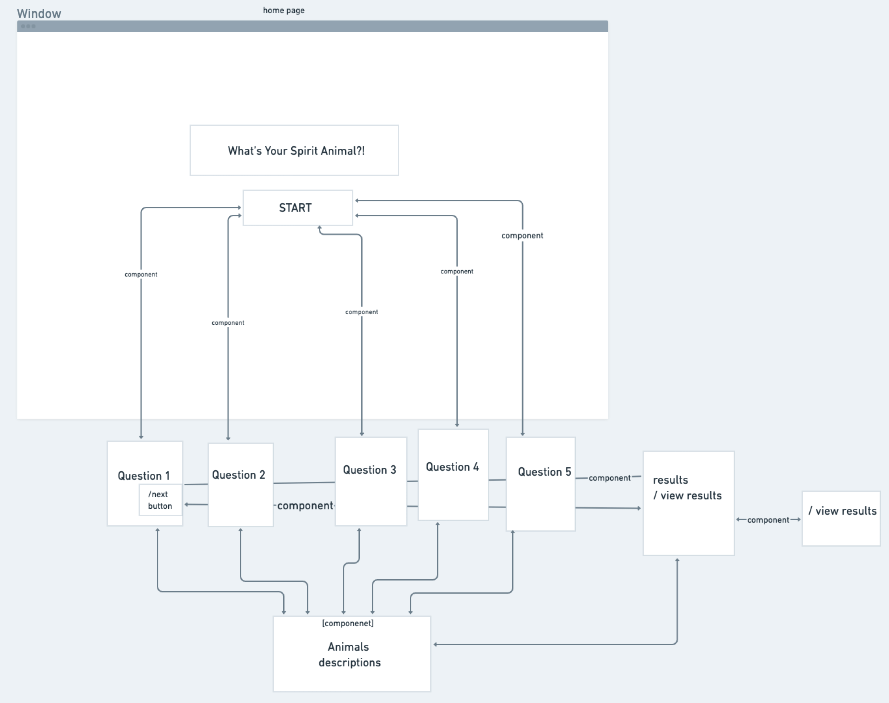
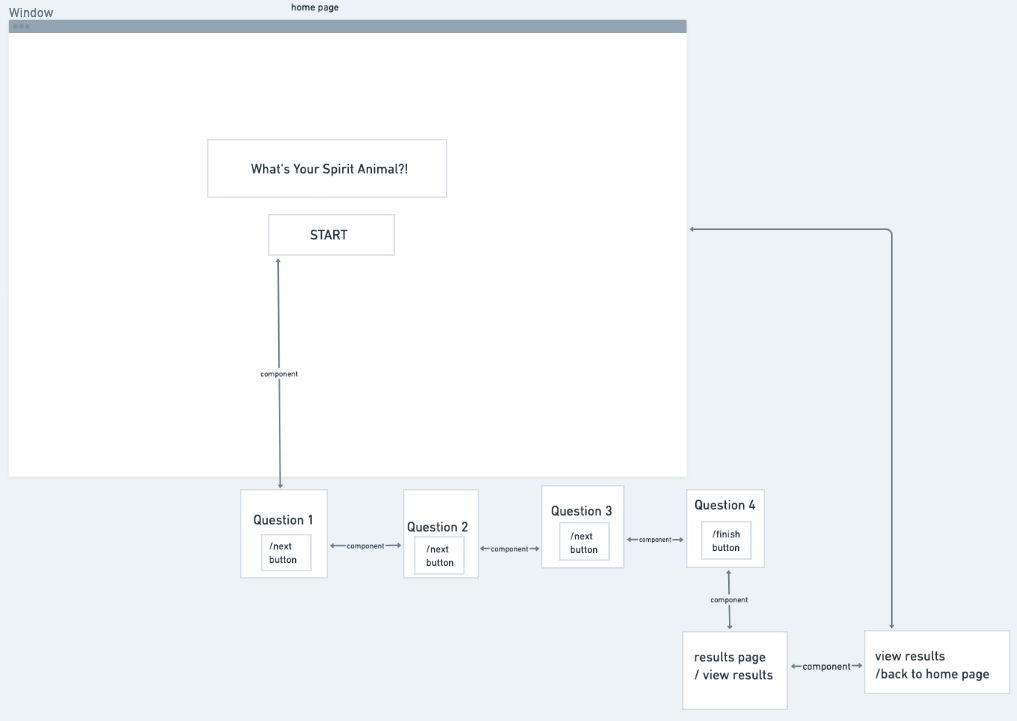
edit

diff --git a/client/src/App.js b/client/src/App.js
@@ -1,12 +1,12 @@
 import './App.css';
 
-const KEY = process.env.REACT_APP_AIRTABLE_KEY;
-const BASE = process.env.REACT_APP_AIRTABLE_BASE;
+// const KEY = process.env.REACT_APP_AIRTABLE_KEY;
+// const BASE = process.env.REACT_APP_AIRTABLE_BASE;
 
 function App() {
   return (
     <div className="App">
-      {KEY} : {BASE}
+      
     </div>
   );
 }

diff --git a/README.md b/README.md
@@ -78,11 +78,11 @@ A game where you'll discover what animal you resemble to the most. The answers t
 | Question 2 Component   |    H     |      3hrs      |      hrs      |     hrs     |
 | Question 3 Component   |    H     |      3hrs      |      hrs      |     hrs     |
 | Question 4 Component   |    H     |      3hrs      |      hrs      |     hrs     |
-| Question 5 Component   |    H     |      3hrs      |      hrs      |     hrs     |
 | Description Component  |    H     |      5hrs      |      hrs      |     hrs     |
 | Results Component      |    H     |      5hrs      |      hrs      |     hrs     |
 | View Results Component |    H     |      3hrs      |      hrs      |     hrs     |
-| Next Button            |    H     |      5hrs      |      hrs      |     hrs     |
+| Next Buttons           |    H     |      5hrs      |      hrs      |     hrs     |
+| Finish Button          |    H     |      3hrs      |      hrs      |     hrs     |
 | CSS                    |    H     |      3hrs      |      hrs      |     hrs     |
 | Media Query            |    H     |      3hrs      |      hrs      |     hrs     |
 | Total                  |    H     |     47hrs      |      hrs      |     hrs     |
